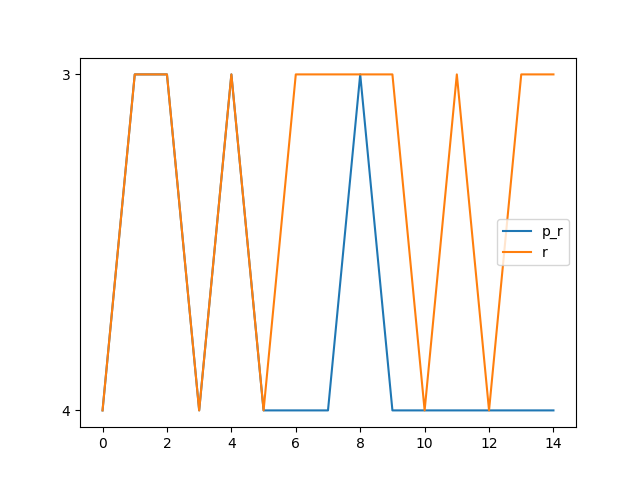
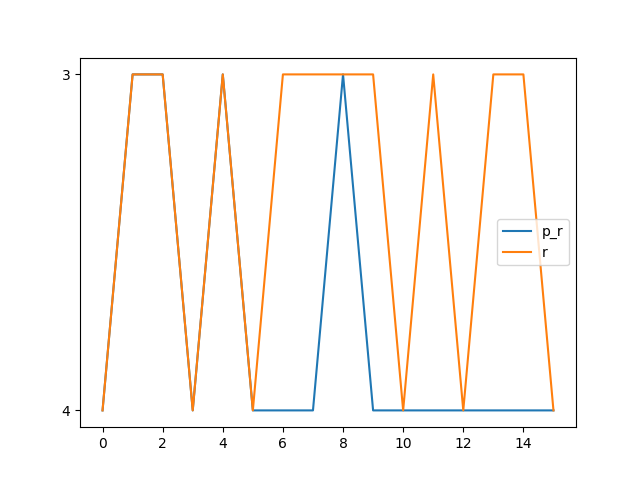
0x000F

diff --git a/benchmark.md b/benchmark.md
@@ -38,3 +38,5 @@ Synthesising 0x000D pexact:182 r=4 exact:216 r=3
 
 Synthesising 0x000E pexact:182 r=4 exact:216 r=3
 
+Synthesising 0x000F pexact:182 r=4 exact:352 r=4
+
